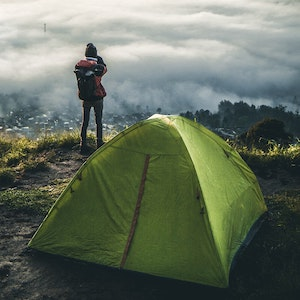
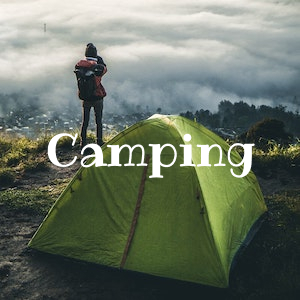
Updated images and styling for activity images for perfected zoom on hover

Changed region(s): [[0.24, 0.45, 0.84, 0.6], [0.15, 0.42, 0.27, 0.57]]

diff --git a/static/app.css b/static/app.css
@@ -2,8 +2,6 @@ body {
   font-family: 'Jomolhari', serif;
 }
 
-
-
 /* For home page carousel */
 .full-screen {
   background-size: cover;
@@ -111,17 +109,6 @@ div.activities {
   margin-top: 30px;
   padding-top: 50px;
   border-radius: 20px;
-}
-
-.activity-text {
-  position: absolute;
-  top: 50%;
-  left: 50%;
-  font-size: 2rem;
-  transform: translate(-50%, -50%);
-  color: white;
-  text-decoration: none;
-  text-align: center;
 }
 
 .activity-image {

diff --git a/templates/activities.html b/templates/activities.html
@@ -19,7 +19,6 @@
       <div class="col-sm m-3">
         <a href="/activity/{{ activity.activity }}">
           <img src={{ activity.image }} class="zoom activity-image">
-          <div class="activity-text">{{ activity.activity }}</div>
         </a>
 
       </div>
